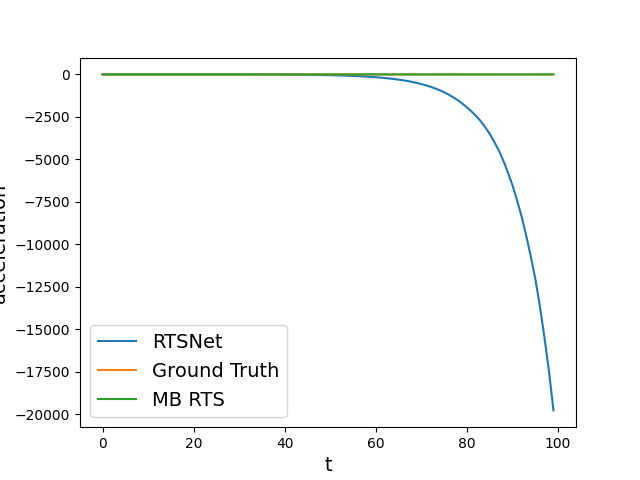
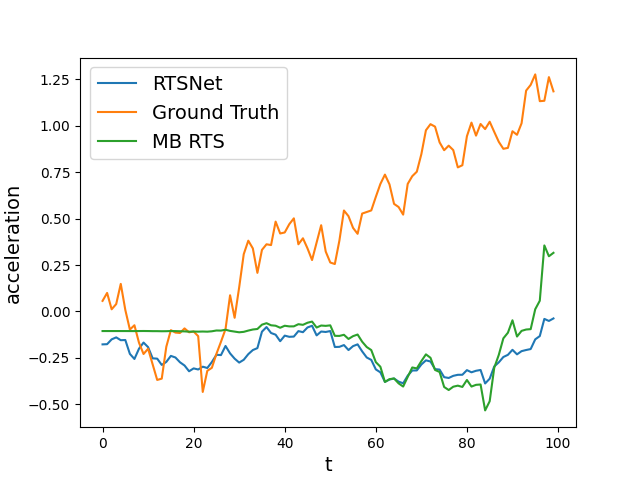
修改随机种子

diff --git a/main_linear_CA.py b/main_linear_CA.py
@@ -5,14 +5,14 @@ import numpy as np
 import random
 
 # Set random seeds for reproducibility
-# torch.manual_seed(42)
-# np.random.seed(42)
-# random.seed(42)
-# if torch.cuda.is_available():
-#     torch.cuda.manual_seed(42)
-#     torch.cuda.manual_seed_all(42)
-# torch.backends.cudnn.deterministic = True
-# torch.backends.cudnn.benchmark = False
+torch.manual_seed(17)
+np.random.seed(17)
+random.seed(17)
+if torch.cuda.is_available():
+    torch.cuda.manual_seed(17)
+    torch.cuda.manual_seed_all(17)
+torch.backends.cudnn.deterministic = True
+torch.backends.cudnn.benchmark = False
 
 from Simulations.Linear_sysmdl import SystemModel
 import Simulations.config as config
@@ -62,7 +62,7 @@ KnownRandInit_cv = True
 KnownRandInit_test = True
 # args.use_cuda = True # use GPU or not
 args.use_cuda = False # use GPU or not
-args.n_steps = 1  # Increased from 1 to 3000 for better training
+args.n_steps = 3000  # Increased from 1 to 3000 for better training
 args.n_batch = 10
 args.lr = 1e-4
 args.wd = 1e-4
